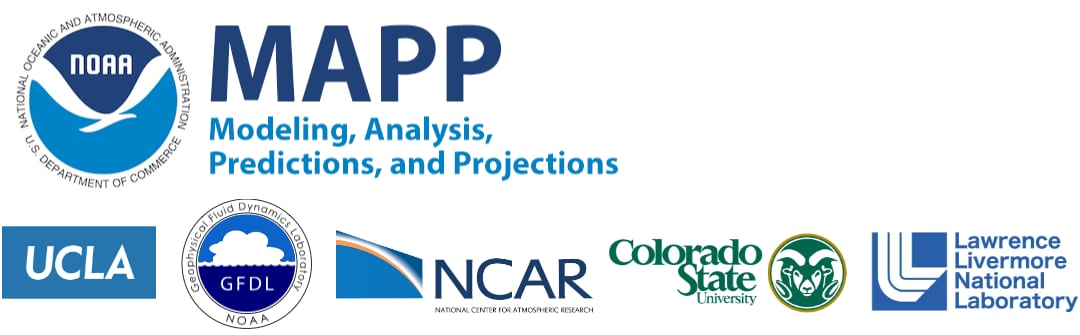
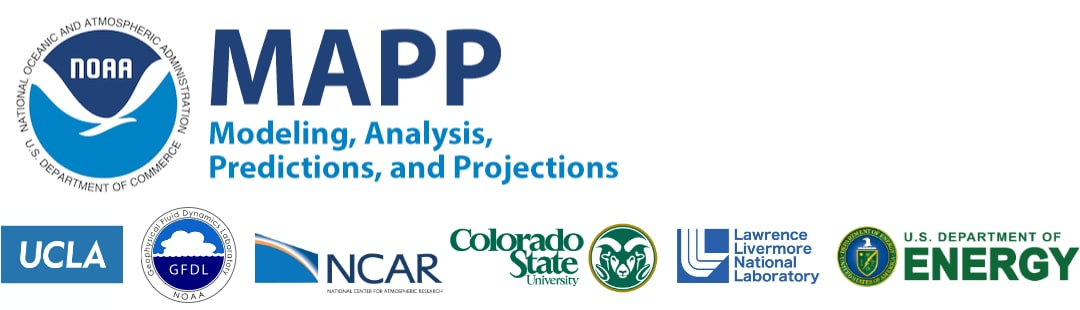
Update acknowledgements to include DOE

Changed region(s): [[0.0, 0.029, 1.0, 0.9871], [0.3667, 0.1742, 0.4889, 0.2613]]

diff --git a/README.md b/README.md
@@ -138,9 +138,9 @@ Consult the [documentation site](https://mdtf-diagnostics.readthedocs.io/en/late
 
 ![MDTF_funding_sources](<./doc/img/mdtf_funding.jpg>)
 
-Development of this code framework for process-oriented diagnostics was supported by the [National Oceanic and Atmospheric Administration](https://www.noaa.gov/) (NOAA) Climate Program Office [Modeling, Analysis, Predictions and Projections](https://cpo.noaa.gov/Meet-the-Divisions/Earth-System-Science-and-Modeling/MAPP) (MAPP) Program in a collaboration of [University of California Los Angeles](https://www.ucla.edu/), the [Geophysical Fluid Dynamics Laboratory](https://www.gfdl.noaa.gov/), the [National Center for Atmospheric Research](https://ncar.ucar.edu/), [Colorado State University](https://www.colostate.edu/) and [Lawrence Livermore National Laboratory](https://www.llnl.gov/) (grant # NA18OAR4310280). 
+Development of this code framework for process-oriented diagnostics was supported by the [National Oceanic and Atmospheric Administration](https://www.noaa.gov/) (NOAA) Climate Program Office [Modeling, Analysis, Predictions and Projections](https://cpo.noaa.gov/Meet-the-Divisions/Earth-System-Science-and-Modeling/MAPP) (MAPP) Program (grant # NA18OAR4310280). Additional support was provided by [University of California Los Angeles](https://www.ucla.edu/), the [Geophysical Fluid Dynamics Laboratory](https://www.gfdl.noaa.gov/), the [National Center for Atmospheric Research](https://ncar.ucar.edu/), [Colorado State University](https://www.colostate.edu/), [Lawrence Livermore National Laboratory](https://www.llnl.gov/) and the US [Department of Energy](https://www.energy.gov/).  
 
-Many of the process-oriented diagnostics modules (PODs) were contributed by members of the NOAA [Model Diagnostics Task Force](https://cpo.noaa.gov/Meet-the-Divisions/Earth-System-Science-and-Modeling/MAPP/MAPP-Task-Forces/Model-Diagnostics-Task-Force) under MAPP support. Statements, findings or recommendations in these documents do not necessarily reflect the views of NOAA or the Department of Commerce.
+Many of the process-oriented diagnostics modules (PODs) were contributed by members of the NOAA [Model Diagnostics Task Force](https://cpo.noaa.gov/Meet-the-Divisions/Earth-System-Science-and-Modeling/MAPP/MAPP-Task-Forces/Model-Diagnostics-Task-Force) under MAPP support. Statements, findings or recommendations in these documents do not necessarily reflect the views of NOAA or the US Department of Commerce.
 
 # Disclaimer
 

diff --git a/doc/index.rst b/doc/index.rst
@@ -30,9 +30,9 @@ Acknowledgements
    :align: center
    :width: 100 %
 
-Development of this code framework for process-oriented diagnostics was supported by the `National Oceanic and Atmospheric Administration <https://www.noaa.gov/>`_ (NOAA) Climate Program Office `Modeling, Analysis, Predictions and Projections <https://cpo.noaa.gov/Meet-the-Divisions/Earth-System-Science-and-Modeling/MAPP>`_ (MAPP) Program in a collaboration of `University of California Los Angeles <https://www.ucla.edu/>`_, the `Geophysical Fluid Dynamics Laboratory <https://www.gfdl.noaa.gov/>`_, the `National Center for Atmospheric Research <https://ncar.ucar.edu/>`_, `Colorado State University <https://www.colostate.edu/>`_ and `Lawrence Livermore National Laboratory <https://www.llnl.gov/>`_ (grant # NA18OAR4310280). 
+Development of this code framework for process-oriented diagnostics was supported by the `National Oceanic and Atmospheric Administration <https://www.noaa.gov/>`_ (NOAA) Climate Program Office `Modeling, Analysis, Predictions and Projections <https://cpo.noaa.gov/Meet-the-Divisions/Earth-System-Science-and-Modeling/MAPP>`_ (MAPP) Program (grant # NA18OAR4310280). Additional support was provided by `University of California Los Angeles <https://www.ucla.edu/>`_, the `Geophysical Fluid Dynamics Laboratory <https://www.gfdl.noaa.gov/>`_, the `National Center for Atmospheric Research <https://ncar.ucar.edu/>`_, `Colorado State University <https://www.colostate.edu/>`_, `Lawrence Livermore National Laboratory <https://www.llnl.gov/>`_ and the US `Department of Energy <https://www.energy.gov/>`_.
 
-Many of the process-oriented diagnostics modules (PODs) were contributed by members of the NOAA `Model Diagnostics Task Force <https://cpo.noaa.gov/Meet-the-Divisions/Earth-System-Science-and-Modeling/MAPP/MAPP-Task-Forces/Model-Diagnostics-Task-Force>`_ under MAPP support. Statements, findings or recommendations in these documents do not necessarily reflect the views of NOAA or the Department of Commerce.
+Many of the process-oriented diagnostics modules (PODs) were contributed by members of the NOAA `Model Diagnostics Task Force <https://cpo.noaa.gov/Meet-the-Divisions/Earth-System-Science-and-Modeling/MAPP/MAPP-Task-Forces/Model-Diagnostics-Task-Force>`_ under MAPP support. Statements, findings or recommendations in these documents do not necessarily reflect the views of NOAA or the US Department of Commerce.
 
 
 Indices and tables
